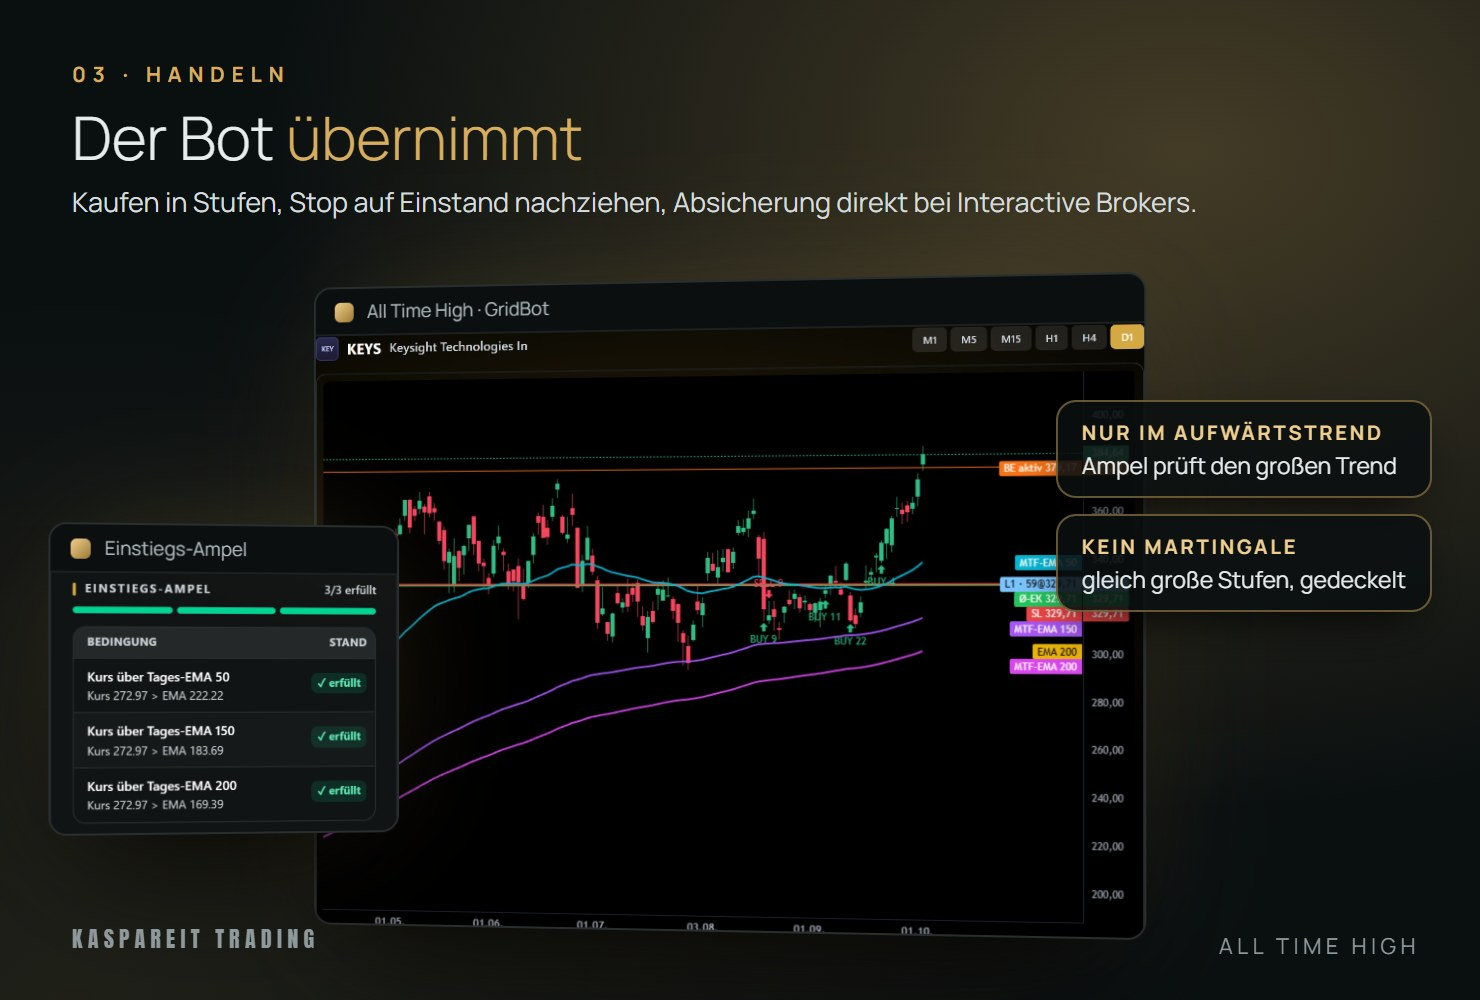
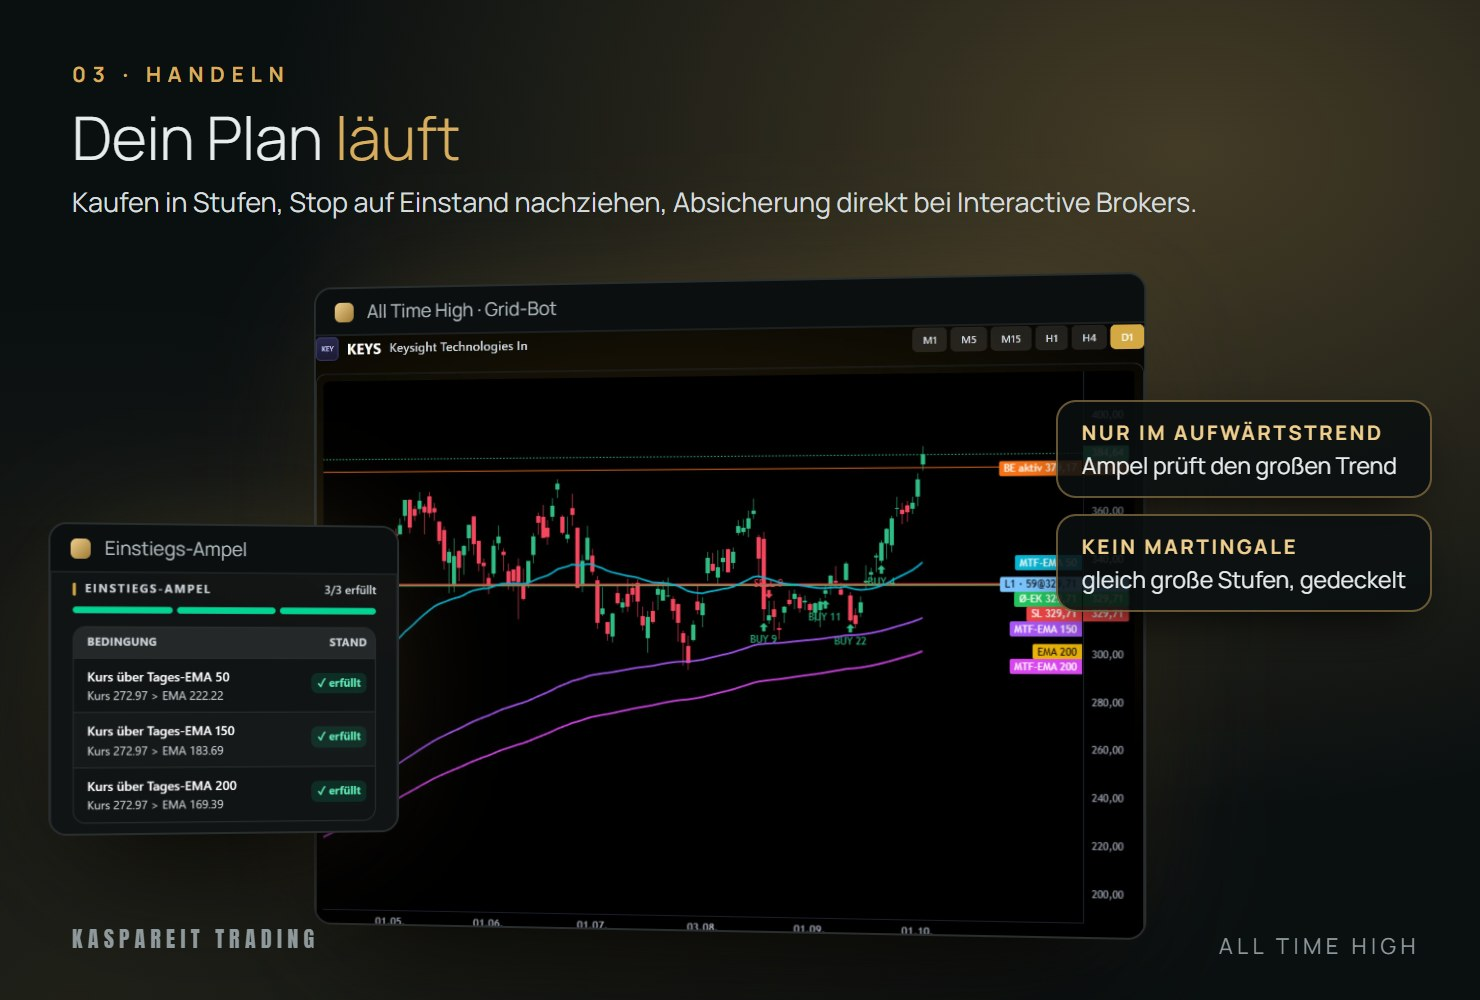
All Time High aktualisiert (2026-11-14 12:43)

Changed region(s): [[0.0932, 0.093, 0.4041, 0.186], [0.3419, 0.279, 0.373, 0.31]]

diff --git a/index.html b/index.html
@@ -358,7 +358,7 @@ section{padding:76px 0}
 
     <div class="fakten">
       <div class="fakt reveal" style="--i:0"><b>2 Strategien</b><span>fertig eingebaut, frei wählbar je Topf</span></div>
-      <div class="fakt reveal" style="--i:1"><b>Weltweit</b><span>alle Aktien, die Interactive Brokers anbietet</span></div>
+      <div class="fakt reveal" style="--i:1"><b>USA und Xetra</b><span>US-Aktien (NYSE, Nasdaq) und deutsche Aktien über Xetra, auf Wunsch gemischt in einem Handelsplan</span></div>
       <div class="fakt reveal" style="--i:2"><b>Echte Stops</b><span>liegen beim Broker, auch wenn dein PC aus ist</span></div>
       <div class="fakt reveal" style="--i:3"><b>1 App</b><span>Screener, Backtest und Handel in einem</span></div>
     </div>
@@ -376,10 +376,10 @@ section{padding:76px 0}
         <h2>Eine Software.<br>Der ganze Aktienhandel.</h2>
         <p class="leit"><b class="hg">Automatisierter Aktienhandel aus einer einzigen Software.</b> Direkt mit deinem Konto bei <b class="hg">Interactive Brokers</b> verbunden, ohne TradingView und ohne Zusatzprogramme.</p>
         <ul class="vorteile">
-          <li><b>Alle Aktien, die dein Broker anbietet</b><span>US-Werte, Xetra und weltweit alles, was Interactive Brokers im Angebot hat.</span></li>
+          <li><b>US-Aktien und Xetra</b><span>US-Aktien (NYSE, Nasdaq) und deutsche Aktien über Xetra, auf Wunsch gemischt in einem Handelsplan.</span></li>
           <li><b>Zwei fertige Strategien</b><span>Eine folgt Trends und Ausbrüchen, die andere kauft in Stufen.</span></li>
           <li><b>Dein Konto in Töpfe aufteilen</b><span>Jeder Handelsplan bekommt eigenes Kapital und eigene Aktien.</span></li>
-          <li><b>Stops direkt beim Broker</b><span>Jede Position hat eine echte Stop-Order bei Interactive Brokers. Fällt dein Konto unter deine Schwelle, schließt der Kontoschutz alles.</span></li>
+          <li><b>Stops direkt beim Broker</b><span>Jede Position hat eine echte Stop-Order bei Interactive Brokers. Fällt dein Kontowert unter deine Schwelle, warnt dich der Equity-Schutz. Auf Wunsch schließt er dann alles.</span></li>
         </ul>
       </div>
     </div>
@@ -409,7 +409,7 @@ section{padding:76px 0}
       </div>
       <div class="karte reveal" style="--i:3">
         <div class="ic"><svg viewBox="0 0 24 24" fill="none" stroke="#D8AE5E" stroke-width="1.6"><path d="M12 3l7 3v5c0 4.5-3 8.3-7 10-4-1.7-7-5.5-7-10V6l7-3z"/></svg></div>
-        <h3>Stops auch ohne deinen PC</h3><p>Jede Position hat eine <b class="hg">echte Stop-Order bei Interactive Brokers</b>. Dazu wacht der Kontoschutz.</p>
+        <h3>Stops auch ohne deinen PC</h3><p>Jede Position hat eine <b class="hg">echte Stop-Order bei Interactive Brokers</b>. Dazu wacht der Equity-Schutz über deinen Kontowert.</p>
       </div>
     </div>
   </div>
@@ -428,8 +428,8 @@ section{padding:76px 0}
         <div class="schritt aktiv" data-bild="0">
           <div class="n">Schritt 01 · Finden</div>
           <h3>Aktien finden statt suchen</h3>
-          <p>Der <b class="hg">Marktscreener</b> durchsucht ganze Indizes wie S&amp;P 500, Nasdaq 100 oder Russell 2000 nach 49 Kennzahlen. Du gewichtest, was dir wichtig ist, und bekommst eine Rangliste.</p>
-          <ul><li>Fertige Vorlagen für den schnellen Start</li><li>Eigene Vorlagen speichern und wieder laden</li></ul>
+          <p>Der <b class="hg">Marktscreener</b> durchsucht US-Aktien nach über 80 Kennzahlen und gut 20 Chartmustern. Du gewichtest, was dir wichtig ist, und bekommst eine Rangliste.</p>
+          <ul><li>Universen: US gesamt, US Top 1000, S&amp;P 500, Nasdaq 100, Russell 1000, Russell 2000 und Fonds (ETF)</li><li>Historisch ab 2009</li><li>Eigene Vorlagen speichern und wieder laden</li></ul>
         </div>
         <div class="schritt" data-bild="1">
           <div class="n">Schritt 02 · Zurückblicken</div>
@@ -440,7 +440,7 @@ section{padding:76px 0}
           <div class="n">Schritt 03 · Testen</div>
           <h3>Erst testen, dann handeln</h3>
           <p>Der <b class="hg">Screener-Backtester</b> rechnet durch, was der Bot mit genau dieser Auswahl gemacht hätte. Ohne Export, ohne Tabellen, mit einem Klick.</p>
-          <ul><li>Mit derselben Kaufmechanik wie der echte Bot</li><li>Jeder Kauf und Verkauf im Chart sichtbar</li></ul>
+          <ul><li>Mit derselben Kaufmechanik wie der echte Bot</li><li>Jeder Kauf und Verkauf im Chart sichtbar</li><li>Backtests rechnen mit US-Aktien ab 2009, deutsche Titel folgen später</li></ul>
         </div>
         <div class="schritt" data-bild="3">
           <div class="n">Schritt 04 · Handeln</div>
@@ -514,14 +514,14 @@ section{padding:76px 0}
         <div class="eig"><span>Trend und Ausbruch</span><span>Stop zieht mit</span><span>für klare Bewegungen</span></div>
       </div>
       <div class="karte bot reveal r">
-        <div class="nr">GRIDBOT</div>
+        <div class="nr">GRID-BOT</div>
         <div class="kurve"><svg viewBox="0 0 400 90" preserveAspectRatio="none"><path d="M0 20 L50 34 L90 30 L130 48 L170 44 L210 60 L250 50 L300 34 L350 22 L400 12" fill="none" stroke="#D8AE5E" stroke-width="2"/><g fill="#D8AE5E"><circle cx="50" cy="34" r="4"/><circle cx="130" cy="48" r="4"/><circle cx="210" cy="60" r="4"/></g><line x1="0" y1="80" x2="400" y2="80" stroke="#e0556b" stroke-opacity=".55" stroke-dasharray="4 5"/><text x="8" y="76" fill="#b1bbbd" font-size="12" font-family="Manrope,Arial">gemeinsamer Stop</text></svg></div>
         <h3>Kauft in Stufen</h3>
         <p>Baut eine Position in <b class="hg">mehreren kleinen Schritten</b> auf, statt alles auf einmal zu kaufen. Alles hängt an einem gemeinsamen Stop.</p>
         <div class="eig"><span>gleich große Stufen</span><span>Stufenzahl gedeckelt</span><span>nur im Aufwärtstrend</span></div>
       </div>
     </div>
-    <div class="ehrlich reveal"><p><b>Ehrlich gesagt:</b> Der GridBot ist <b class="hg">kein Martingale</b>, die Stufen werden nie verdoppelt. Im Fallen nachzukaufen kann sich trotzdem aufsummieren. Dafür gibt es die kleine Stufengröße, die Obergrenze für die Stufen und den Stop. Diese Grenzen setzt du selbst.</p></div>
+    <div class="ehrlich reveal"><p><b>Ehrlich gesagt:</b> Der Grid-Bot ist <b class="hg">kein Martingale</b>, die Stufen werden nie verdoppelt. Im Fallen nachzukaufen kann sich trotzdem aufsummieren. Dafür gibt es die kleine Stufengröße, die Obergrenze für die Stufen und den Stop. Diese Grenzen setzt du selbst.</p></div>
   </div>
 </section>
 
@@ -543,9 +543,9 @@ section{padding:76px 0}
     <p class="schema-text reveal"><span class="an">Der Bot schickt jede Stop-Order <b class="hg">direkt an Interactive Brokers</b>.</span><span class="aus">PC aus, Internet weg? <b class="hg">Die Stops liegen weiter beim Broker</b>. Bei Kurslücken können Verluste größer ausfallen.</span></p>
     <div class="grid-4">
       <div class="karte reveal" style="--i:0"><h3>Echte Stops</h3><p>Jede Position bekommt eine Stop-Order direkt bei Interactive Brokers.</p></div>
-      <div class="karte reveal" style="--i:1"><h3>Kontoschutz</h3><p>Fällt dein Kontowert unter deine Schwelle, schließt der Kontoschutz alles und meldet sich per E-Mail.</p></div>
+      <div class="karte reveal" style="--i:1"><h3>Equity-Schutz</h3><p>Der Equity-Schutz wacht über deinen Kontowert. Fällt er unter deine Schwelle, warnt er dich, auf Wunsch auch per E-Mail. Alles schließen lässt er nur, wenn du das einschaltest.</p></div>
       <div class="karte reveal" style="--i:2"><h3>Bestandsabgleich</h3><p>Alle 90 Sekunden prüft die App, ob Stops und Bestand zusammenpassen.</p></div>
-      <div class="karte reveal" style="--i:3"><h3>Verbindung weg?</h3><p>Dann eröffnet die App keine neuen Positionen. Verkäufe, Stops und Kontoschutz laufen weiter.</p></div>
+      <div class="karte reveal" style="--i:3"><h3>Verbindung weg?</h3><p>Dann eröffnet die App keine neuen Positionen. Verkäufe, Stops und Equity-Schutz laufen weiter.</p></div>
     </div>
   </div>
 </section>
@@ -557,13 +557,13 @@ section{padding:76px 0}
       <div class="kicker">Kapital im Griff</div>
       <h2 style="font-size:clamp(30px,4.2vw,48px)">Ein Konto.<br>Mehrere Töpfe.</h2>
       <p style="margin-top:18px;font-size:17px">Du teilst dein Konto in <b class="hg">Handelspläne</b> auf. Jeder Plan bekommt einen festen Anteil deines Kapitals, eigene Aktien und eine eigene Auswertung. So laufen mehrere Ansätze sauber getrennt nebeneinander.</p>
-      <p style="margin-top:14px;font-size:15.5px;color:var(--dim)">Alle Pläne zusammen nutzen nie mehr als 100 Prozent deines Kontos.</p>
+      <p style="margin-top:14px;font-size:15.5px;color:var(--dim)">Ab Werk nutzen alle Pläne zusammen nie mehr als 100 Prozent deines Kontos. Mehr nur, wenn du den Investitionsrahmen bewusst erhöhst.</p>
     </div>
     <div class="reveal r">
       <div class="toepfe" id="toepfe">
         <div class="balken">
           <div class="a">Topf A<small>Aktienbot · 40 %</small></div>
-          <div class="b">Topf B<small>GridBot · 30 %</small></div>
+          <div class="b">Topf B<small>Grid-Bot · 30 %</small></div>
           <div class="c">Topf C<small>20 %</small></div>
           <div class="frei">frei</div>
         </div>
@@ -576,6 +576,28 @@ section{padding:76px 0}
         <div class="z"><span>Passen zwei Einstellungen nicht zusammen</span><b>warnt sie vorher</b></div>
       </div>
     </div>
+  </div>
+</section>
+
+<!-- ===== NEU DABEI (Stand ATH 0.9.65, 14.11.2026) ===== -->
+<section id="neu" style="padding-top:40px">
+  <div class="wrap">
+    <div class="sec-head reveal">
+      <div class="kicker">Neu dabei</div>
+      <h2>Mehr Werkzeuge.<br>Die Entscheidung bleibt bei dir.</h2>
+      <p>Diese Funktionen sind mit den letzten Updates dazugekommen.</p>
+    </div>
+    <div class="grid-4">
+      <div class="karte reveal" style="--i:0"><div class="nr">BACKTEST</div><h3>Strategie-Verbund</h3><p>Du testest mehrere deiner Strategien gemeinsam und siehst, wie sie im Verbund zusammengespielt hätten. <b class="hg">Hypothetischer Backtest</b> mit US-Aktien ab 2009.</p></div>
+      <div class="karte reveal" style="--i:1"><div class="nr">LIVE UMSETZEN</div><h3>Vom Backtest in den Plan</h3><p>Eine Strategie aus dem Backtester übernimmst du mit deinem Klick auf „Live umsetzen“ in einen Handelsplan. Neue Listen holst du selbst.</p></div>
+      <div class="karte reveal" style="--i:2"><div class="nr">MÄRKTE</div><h3>USA und Xetra in einem Plan</h3><p>US-Aktien und deutsche Aktien über Xetra laufen auf Wunsch gemischt in einem Handelsplan. Ohne aktuellen Wechselkurs kauft der Plan nicht.</p></div>
+      <div class="karte reveal" style="--i:3"><div class="nr">AKTIENBOT</div><h3>Preismarke „Aktiv ab“</h3><p>Je Aktie setzt du eine Preismarke. Erst wenn der Kurs darüber schließt, darf der Aktienbot nach seiner Regel kaufen.</p></div>
+      <div class="karte reveal" style="--i:0"><div class="nr">EINSTELLUNGEN</div><h3>Profi-Einstellung</h3><p>Ein Haken in den Einstellungen blendet weitere Einstellungen ein. Ohne Haken bleibt die Oberfläche einfach.</p></div>
+      <div class="karte reveal" style="--i:1"><div class="nr">SICHERUNG</div><h3>Handelspläne zurückholen</h3><p>All Time High sichert deine Handelspläne jeden Tag. Aus einer Sicherung holst du sie bei Bedarf zurück.</p></div>
+      <div class="karte reveal" style="--i:2"><div class="nr">WINDOWS</div><h3>Automatischer Start</h3><p>Auf Wunsch startet All Time High nach einem Windows-Neustart zusammen mit dem IB Gateway von selbst wieder. Die App prüft, ob alles dafür bereit ist.</p></div>
+      <div class="karte reveal" style="--i:3"><div class="nr">UPDATES</div><h3>Nur per Klick</h3><p>Updates installierst du selbst. Vorher zeigt dir die App, was sich am Handel deiner laufenden Pläne ändert.</p></div>
+    </div>
+    <p class="reveal" style="margin-top:22px;font-size:13px;color:var(--dim)">Backtests rechnen auf vergangenen Kursdaten, die Ergebnisse sind hypothetisch. Live-Ergebnisse können vom Backtest abweichen, etwa durch Ausführung, Kurslücken, Gebühren und Wechselkurse.</p>
   </div>
 </section>
 
@@ -621,10 +643,10 @@ section{padding:76px 0}
         <div class="preis-info versteckt" data-art="monat">Flexibel Monat für Monat. Mit dem Jahrespreis sparst du 218 €.</div>
         <div class="claim">Mit Aktien-Trader bekommst du All Time High, die komplette Aktien-Plattform für dein Konto bei Interactive Brokers.</div>
         <ul>
-          <li>Die Software All Time High: Windows-App mit Aktienbot und GridBot</li>
+          <li>Die Software All Time High: Windows-App mit Aktienbot und Grid-Bot</li>
           <li>Marktscreener, historisches Screening und Backtester</li>
-          <li>Handelspläne, echte Stops beim Broker und Kontoschutz</li>
-          <li>Regelmäßige Updates mit neuen Funktionen. Ein Update ändert nie, welche Strategie und welche Einstellungen du gewählt hast.</li>
+          <li>Handelspläne, echte Stops beim Broker und Equity-Schutz</li>
+          <li>Regelmäßige Updates mit neuen Funktionen. Du installierst jedes Update selbst, vorher zeigt dir die App, was sich am Handel deiner laufenden Pläne ändert.</li>
           <li>Einrichtungsanleitung Schritt für Schritt</li>
           <li>Support per Ticket bei technischen Fragen</li>
           <li>Eigener All-Time-High-Kanal im Discord</li>
@@ -640,14 +662,15 @@ section{padding:76px 0}
   </div>
 </section>
 
-<!-- ===== BETA ===== -->
+<!-- ===== LAUFEND WEITERENTWICKELT (ersetzt Beta-Kasten, 14.11.2026) ===== -->
 <section style="padding-bottom:40px">
   <div class="wrap">
     <div class="beta reveal sc">
-      <div class="tag">Beta</div>
+      <div class="tag">Wichtig</div>
       <div>
-        <h3>Freigegeben für echtes Geld, aktiv in Entwicklung</h3>
-        <p>Seit dem 10. Oktober 2026 ist All Time High in der Beta-Phase und nicht mehr auf ein Übungskonto beschränkt. Beta heißt: Die App wird laufend weiterentwickelt, euer Feedback fließt direkt ein. Unsere Empfehlung: <b class="hg">mit einem überschaubaren Betrag starten</b> und erst mit Routine aufstocken.</p>      </div>
+        <h3>Laufend weiterentwickelt</h3>
+        <p>All Time High wird laufend weiterentwickelt. Updates können auch ändern, wie deine Pläne handeln, du siehst das vor jeder Installation. Unsere Empfehlung: <b class="hg">Starte mit einem überschaubaren Betrag</b> und teste neue Einstellungen zuerst auf einem Papierkonto bei Interactive Brokers.</p>
+      </div>
     </div>
   </div>
 </section>
@@ -666,10 +689,11 @@ section{padding:76px 0}
       <details><summary>Welche Broker funktionieren?</summary><div class="ans">Interactive Brokers und Broker, die dieselbe Technik nutzen. Bestätigt sind CapTrader und LYNX. Broker wie comdirect, Trade Republic oder WH SelfInvest funktionieren nicht.</div></details>
       <details><summary>Läuft das auch auf dem Mac oder dem Handy?</summary><div class="ans">Nein, All Time High läuft nur unter Windows. Wenn du einen Mac hast, nimmst du einen Windows-Server oder einen Mini-PC.</div></details>
       <details><summary>Muss mein Rechner durchgehend laufen?</summary><div class="ans">Während der Handelszeiten ja, damit gekauft und verkauft wird. Die Stops liegen aber bei Interactive Brokers und greifen auch, wenn dein Rechner aus ist.</div></details>
-      <details><summary>Welche Aktien kann ich handeln?</summary><div class="ans">Alles, was Interactive Brokers anbietet, zum Beispiel US-Werte und deutsche Aktien an der Xetra. Für jede Börse brauchst du das passende Marktdaten-Abo bei deinem Broker. Läuft dein Konto in einer anderen Währung, rechnet die App den Kurs automatisch um.</div></details>
-      <details><summary>Kann ich im selben Konto eigene Aktien halten?</summary><div class="ans">Am besten liegt im Konto nur, was die App handeln soll. In der Standardeinstellung schließt sie Positionen, die in keiner ihrer Listen stehen. Das kannst du abschalten, dann warnt sie nur. Oder du nutzt für die App ein eigenes Konto.</div></details>
+      <details><summary>Welche Aktien kann ich handeln?</summary><div class="ans">US-Aktien (NYSE, Nasdaq) und deutsche Aktien über Xetra, auf Wunsch gemischt in einem Handelsplan. Für jede Börse brauchst du das passende Marktdaten-Abo bei deinem Broker. Läuft dein Konto in einer anderen Währung, rechnet die App den Kurs automatisch um. Ohne aktuellen Wechselkurs kauft der Plan nicht.</div></details>
+      <details><summary>Kann ich im selben Konto eigene Aktien halten?</summary><div class="ans">Am besten liegt im Konto nur, was die App handeln soll. Positionen, die nicht zu einem Handelsplan gehören, meldet All Time High dir. Automatisch geschlossen werden sie nur, wenn du das einschaltest. Ab Werk ist das aus. Oder du nutzt für die App ein eigenes Konto.</div></details>
       <details><summary>Funktioniert das mit jedem Kontotyp bei Interactive Brokers?</summary><div class="ans">Mit normalen Einzel- und Gemeinschaftskonten ja. Verwaltungskonten mit mehreren Unterkonten (Family oder Financial Advisor) werden nicht unterstützt. Oft hilft die Anmeldung mit dem einzelnen Unterkonto. Frag uns im Zweifel vor dem Kauf.</div></details>
-      <details><summary>Wie genau ist der Backtester?</summary><div class="ans">Er rechnet mit derselben Kaufmechanik wie der echte Bot. Getestet werden derzeit US-Aktien mit Kursdaten ab 2009. Die Ordergebühren von Interactive Brokers (Tarif „Fixed“) kannst du per Schalter mit einrechnen, ab Werk ist der Schalter aus. Vergangene Ergebnisse sind kein verlässlicher Hinweis auf künftige Ergebnisse.</div></details>
+      <details><summary>Wie genau ist der Backtester?</summary><div class="ans">Er rechnet mit derselben Kaufmechanik wie der echte Bot. Getestet werden derzeit US-Aktien mit Kursdaten ab 2009, deutsche Titel folgen später. Die Ordergebühren von Interactive Brokers (Tarif „Fixed“) kannst du per Schalter mit einrechnen, ab Werk ist der Schalter aus. Vergangene Ergebnisse sind kein verlässlicher Hinweis auf künftige Ergebnisse.</div></details>
+      <details><summary>Ändert ein Update, wie meine Pläne handeln?</summary><div class="ans">Das kann sein. Ein Update kann ändern, wie die App deine Einstellungen umsetzt, zum Beispiel wie ein Stop oder ein Kursziel berechnet wird. Es kann auch neue Schalter mitbringen, die schon eingeschaltet sind. Deshalb installiert die App Updates nicht von selbst. Gibt es eine neue Version, siehst du vorher, was neu ist und was sich an deinen laufenden Handelsplänen ändert. Installiert wird erst, wenn du auf „Jetzt aktualisieren“ klickst. Bei „Später“ bleibt deine jetzige Version installiert. Updates enthalten oft auch Fehlerkorrekturen, prüf sie deshalb zeitnah.</div></details>
       <details><summary>Was kostet zusätzlich?</summary><div class="ans">Die Marktdaten-Abos und die Ordergebühren laufen über deinen Broker. Das IB Gateway ist kostenlos. Optional richten wir alles mit dir zusammen ein, pauschal für 99 €.</div></details>
       <details><summary>Was ist Aktien-Trader?</summary><div class="ans">Aktien-Trader ist der Name des Pakets, All Time High der Name der Software. Mit Aktien-Trader bekommst du All Time High mit allen Funktionen, Updates, Support per Ticket und den All-Time-High-Kanal im Discord.</div></details>
       <details><summary>Wie lange läuft der Zugang und wie kündige ich?</summary><div class="ans">Aktien-Trader ist ein Abo. Beim Jahresabo zahlst du einmal im Jahr im Voraus, beim Monatsabo jeden Monat. Beides verlängert sich automatisch, bis du kündigst. Eine kostenlose Testphase gibt es nicht, das Monatsabo ist der einfachste Weg zum Ausprobieren.</div></details>

diff --git a/free-webinar/index.html b/free-webinar/index.html
@@ -296,9 +296,9 @@ section{padding:76px 0}
         <p>Im Plan setzt All Time High deine festen Regeln für Kauf und Verkauf um, der Aktienbot legt dazu eine <b class="hg">echte Stop-Order</b> bei Interactive Brokers an.</p>
       </div>
       <div class="reveal r">
-        <div class="fenster" data-gross="../ath-galerie/gross/ath04_historisch.jpg">
-          <div class="leiste"><span class="app"></span>All Time High · Historisches Screening</div>
-          <img src="../ath-galerie/gross/ath04_historisch.jpg" alt="Historisches Screening in All Time High: welche Aktien je Stichtag neu in die Liste kommen" loading="lazy" width="2000" height="1125">
+        <div class="fenster" data-gross="../ath-galerie/gross/ath06_gridbot.jpg">
+          <div class="leiste"><span class="app"></span>All Time High · Laufender Handelsplan</div>
+          <img src="../ath-galerie/gross/ath06_gridbot.jpg" alt="Chart einer laufenden Position im Handelsplan mit Kaufstufen und Stops" loading="lazy" width="1952" height="1443">
         </div>
       </div>
     </div>
@@ -379,7 +379,7 @@ section{padding:76px 0}
   <div class="wrap">
     <p><b>Risikohinweis:</b> All Time High ist eine Software, keine Anlageberatung und keine Vermögensverwaltung. Der Handel mit Aktien ist mit Risiken bis hin zum Verlust des eingesetzten Kapitals verbunden. Ergebnisse aus Backtests sind hypothetisch, vergangene Ergebnisse sind keine Garantie für zukünftige Entwicklungen. Die Bildschirmfotos zeigen die Software, keine Ergebnisse von Kundenkonten. Kontakt: info@kaspareit-trading.de</p>
     <p style="margin:18px 0"><a class="kuendigen-knopf" href="https://www.copecart.com/buyer_order_overview_requests/new" target="_blank" rel="noopener" style="display:inline-block;max-width:100%;box-sizing:border-box;padding:12px 24px;border:1px solid #40c6cc;border-radius:8px;color:#40c6cc;font-size:15px;font-weight:500;line-height:1.3;text-align:center;text-decoration:none;white-space:normal">Verträge hier kündigen</a></p>
-<p>© 2026 Kaspareit Trading &nbsp;·&nbsp; <a href="/impressum/">Impressum</a> &nbsp;·&nbsp; <a href="/datenschutz/">Datenschutz</a> &nbsp;·&nbsp; <a href="https://start.kaspareit-trading.com/nutzungsbedingungen/">Nutzungsbedingungen</a></p>
+<p>© 2026 Kaspareit Trading &nbsp;·&nbsp; <a href="/impressum/">Impressum</a> &nbsp;·&nbsp; <a href="/datenschutz/">Datenschutz</a> &nbsp;·&nbsp; <a href="https://start.kaspareit-trading.com/ath/agb/">AGB</a> &nbsp;·&nbsp; <a href="https://start.kaspareit-trading.com/nutzungsbedingungen/">Nutzungsbedingungen</a></p>
   </div>
 </div>
 
